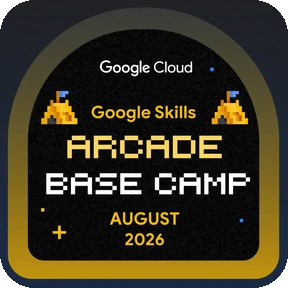
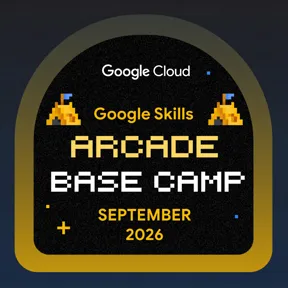
feat(catalog): sinkron katalog ke Arcade September 2026
- 6 game September: game id + access code baru (Base Camp, Adventure/
  Modern Cloud Architecture, Voyage/App Modernization, Trail/Data
  Engineering and Security, Special/Pitch Perfect, Simulator/DevOps
  Engineer).
- Art badge September dari kartu resmi (crop 288px, webp); art Agustus
  diarsipkan ke public/img/past. Cache-buster gambar game ?v=4 -> ?v=5.
- 7 game Agustus masuk PAST_GAMES (54 -> 61), termasuk Re-Trail.
- isGame() kini juga mengenali PAST_GAME_KEYS: game spesial lama tanpa
  kata "Arcade" (Spans and Plans, dst.) tetap dihitung setelah bulan
  berganti, tidak jatuh ke skill/unknown.
- check:arcade membuang komentar HTML sebelum ekstrak access code,
  supaya kode game arsip tidak dianggap drift.

Diverifikasi dengan npm test (132 lolos) dan npm run check:arcade:
tidak ada perbedaan dengan sumber resmi.

diff --git a/lib/gameCatalog.js b/lib/gameCatalog.js
@@ -5,41 +5,29 @@
 //
 // Access code + game id (skills.google/games/{game}) berubah TIAP BULAN.
 // Sumber: go.cloudskillsboost.google/arcade. Update bulanan.
-// Agustus 2026 (dicek 3 Agu 2026; Re-Trail ditambahkan 19 Agu 2026). Trail sudah dibuka lagi, jadi tidak ada lagi entri `off`.
+// September 2026 (dicek 2 Sep 2026).
 //
 // `re` HARUS memuat penanda khas bulan ini (nama tema atau bulannya), bukan cuma kata generik
-// seperti /base ?camp/ atau /voyage/. Judul badge Juli ("Arcade Base Camp July", "Arcade Voyage:
-// July 2026") ikut tersimpan di profil peserta, jadi regex generik membuat game bulan lalu
-// terbaca sebagai game bulan ini dan statusnya salah jadi "Selesai".
+// seperti /base ?camp/ atau /voyage/. Judul badge Agustus ("Arcade Base Camp August 2026",
+// "Arcade Adventure: Data Vault") ikut tersimpan di profil peserta, jadi regex generik membuat
+// game bulan lalu terbaca sebagai game bulan ini dan statusnya salah jadi "Selesai".
 // `title` = judul resmi badge (dari <title> skills.google/games/{id}), dipakai test untuk
 // membuktikan tiap regex cocok dengan judulnya sendiri dan tidak dengan game lain.
 export const GAME_CATALOG = [
-  { name: 'Arcade Base Camp', short: 'Base Camp', title: 'Arcade Base Camp August 2026', game: 7394, code: '1q-basecamp-10219', img: '/img/game-basecamp.webp', re: /base ?camp august/i },
-  { name: 'Arcade Adventure', short: 'Adventure', title: 'Arcade Adventure: Data Vault', sub: 'Data Vault', game: 7395, code: '1q-datamgt-92372', img: '/img/game-adventure.webp', re: /adventure.*data vault/i },
-  // Bukan /google sheets/i polos: skill badge 776 "Use Functions, Formulas, and Charts in Google
-  // Sheets" akan ikut kena.
-  { name: 'Arcade Voyage', short: 'Voyage', title: 'Arcade Voyage: Google Sheets', sub: 'Google Sheets', game: 7398, code: '1q-sheets-29185', img: '/img/game-voyage.webp', re: /voyage.*sheets/i },
-  { name: 'Arcade Trail', short: 'Trail', title: 'Arcade Trail: Cloud Delivery Systems', sub: 'Cloud Delivery Systems', game: 7396, code: '1q-delivery-31058', img: '/img/game-trail.webp', re: /trail.*cloud delivery/i },
-  // Judul resmi game spesial bulan ini cuma "Spans and Plans" (tanpa awalan Arcade). Inilah alasan
+  { name: 'Arcade Base Camp', short: 'Base Camp', title: 'Arcade Base Camp September 2026', game: 7444, code: '1q-basecamp-09304', img: '/img/game-basecamp.webp', re: /base ?camp september/i },
+  { name: 'Arcade Adventure', short: 'Adventure', title: 'Arcade Adventure: Modern Cloud Architecture', sub: 'Modern Cloud Architecture', game: 7441, code: '1q-architecture-01381', img: '/img/game-adventure.webp', re: /adventure.*modern cloud architecture/i },
+  // Bukan /microservice/i polos: skill badge 741 "Develop Serverless Applications on Cloud Run"
+  // dan lab "Build a Resilient, Asynchronous System with Cloud Run and Pub/Sub" memuat kata itu,
+  // tapi keduanya bukan badge game.
+  { name: 'Arcade Voyage', short: 'Voyage', title: 'Arcade Voyage: App Modernization', sub: 'App Modernization', game: 7442, code: '1q-microservice-9210', img: '/img/game-voyage.webp', re: /voyage.*app modernization/i },
+  { name: 'Arcade Trail', short: 'Trail', title: 'Arcade Trail: Data Engineering and Security', sub: 'Data Engineering and Security', game: 7443, code: '1q-vpcpeering-3469', img: '/img/game-trail.webp', re: /trail.*data engineering/i },
+  // Judul resmi game spesial bulan ini cuma "Pitch Perfect" (tanpa awalan Arcade). Inilah alasan
   // GAME_CATALOG dipindah ke lib/: judul tanpa kata "Arcade" tidak tertangkap pola generik di
   // parseProfile, jadi badge-nya kehitung 0,5 poin sebagai badge keahlian, bukan 1 poin game.
-  { name: 'Arcade Special', short: 'Special', title: 'Spans and Plans', sub: 'Spans and Plans', game: 7399, code: '1q-schema-27083', img: '/img/game-special.webp', re: /spans ?and ?plans/i },
-  // Bukan /network security/i polos: badge 1412 "Designing Network Security in Google Cloud" akan
-  // ikut kena dan salah di-link ke halaman game. 1412 sudah dikeluarkan dari SKILL_CATALOG (mati
-  // 4 Agu 2026), tapi judulnya masih tersimpan di profil peserta yang terlanjur mengambilnya,
-  // jadi alasan regex ini tetap berlaku.
-  { name: 'Arcade Simulator', short: 'Simulator', title: 'Arcade Simulator: Network Security Engineer', sub: 'Network Security Engineer', game: 7397, code: '1q-network-51470', img: '/img/game-new.webp', re: /simulator.*network security/i },
-  // Bonus run yang dirilis Google di tengah bulan, bukan bagian dari enam game reguler:
-  // Trail Juli ditutup lebih awal, jadi ini kesempatan menambal satu poin yang terlewat.
-  // Ditemukan 19 Agu 2026 oleh `npm run check:arcade`, yang melihat access code di halaman
-  // resmi tanpa padanan di katalog ini.
-  //
-  // Skor TIDAK terpengaruh selama ia hilang: judulnya diawali "Arcade", jadi pola generik
-  // /^arcade\b/i di gameRules.js sudah menghitungnya 1 poin game. Yang hilang cuma kartunya
-  // di tracker, jadi peserta tidak tahu game ini ada dan tidak dapat access code-nya.
-  //
-  // `re` tidak boleh cuma /trail/: judul Trail bulan ini dan Trail bulan lalu sama-sama
-  // memuat kata itu. "re-?trail" tidak cocok dengan "Arcade Trail" karena di situ yang
-  // mendahului "trail" adalah spasi, bukan "re".
-  { name: 'Arcade Re-Trail', short: 'Re-Trail', title: 'Arcade Re-Trail: Vaults & Vectors', sub: 'Vaults & Vectors', game: 7426, code: '1q-vaults-39213', img: '/img/game-retrail.webp', re: /re-?trail.*vaults/i },
+  // (Kejadian yang sama bulan lalu: "Spans and Plans".)
+  { name: 'Arcade Special', short: 'Special', title: 'Pitch Perfect', sub: 'Pitch Perfect', game: 7446, code: '1q-analysis-5026', img: '/img/game-special.webp', re: /pitch ?perfect/i },
+  // Bukan /devops/i polos: judul badge game ini memang "Arcade Simulator: DevOps Engineer", dan
+  // tidak ada skill badge yang memuat kata "simulator" + "devops", tapi polanya tetap diikat
+  // supaya konsisten dengan bulan-bulan sebelumnya dan tidak menyambar apa pun di luar game.
+  { name: 'Arcade Simulator', short: 'Simulator', title: 'Arcade Simulator: DevOps Engineer', sub: 'DevOps Engineer', game: 7445, code: '1q-devops-065131', img: '/img/game-new.webp', re: /simulator.*devops/i },
 ]

diff --git a/lib/pastGames.js b/lib/pastGames.js
@@ -1,5 +1,5 @@
-// Game Arcade 2026 yang sudah ditutup ("Game over!"), Januari–Juli 2026.
-// Sumber: section "Game over!" di go.cloudskillsboost.google/arcade (dicek ulang 3 Agu 2026).
+// Game Arcade 2026 yang sudah ditutup ("Game over!"), Januari–Agustus 2026.
+// Sumber: section "Game over!" di go.cloudskillsboost.google/arcade (dicek ulang 2 Sep 2026).
 // Dipakai untuk dua hal:
 //   1. Referensi di katalog (game lama tidak bisa dikerjakan lagi, tapi poinnya tetap terhitung
 //      di total Season 2026, jadi peserta perlu tahu asal poinnya).
@@ -79,6 +79,15 @@ export const PAST_GAMES = [
   { m: 7, name: 'Arcade Adventure: July 2026', pts: 1, alt: ['Arcade Adventure: Low-Code Development'] },
   { m: 7, name: 'Arcade Voyage: July 2026', pts: 1, alt: ['Arcade Voyage: Cloud Storage and Data Governance'] },
   { m: 7, name: 'Arcade Trail: July 2026', pts: 1, alt: ['Arcade Trail: Google Workspace Administration'] },
+  // Agustus. Masuk daftar "Game over!" per 2 Sep 2026, termasuk Re-Trail (bonus run tengah bulan).
+  // `alt` = judul badge bertema yang tersimpan di profil peserta (dari `title` GAME_CATALOG Agustus).
+  { m: 8, name: 'Arcade Spans and Plans', pts: 1, alt: ['Spans and Plans'] },
+  { m: 8, name: 'Arcade Simulator: Network Security Engineer', pts: 1 },
+  { m: 8, name: 'Arcade Base Camp August', pts: 1, alt: ['Arcade Base Camp August 2026'] },
+  { m: 8, name: 'Arcade Adventure: August 2026', pts: 1, alt: ['Arcade Adventure: Data Vault'] },
+  { m: 8, name: 'Arcade Voyage: August 2026', pts: 1, alt: ['Arcade Voyage: Google Sheets'] },
+  { m: 8, name: 'Arcade Trail: August 2026', pts: 1, alt: ['Arcade Trail: Cloud Delivery Systems'] },
+  { m: 8, name: 'Arcade Re-Trail: August 2026', pts: 1, alt: ['Arcade Re-Trail: Vaults & Vectors'] },
 ]
 
 // Judul badge di profil bisa beda spasi/tanda baca dengan halaman resmi (mis. "Work- Life"),
@@ -87,6 +96,12 @@ const key = (s) => (s || '').toLowerCase().replace(/[^a-z0-9]+/g, '')
 // Nama + semua aliasnya menunjuk ke entri yang sama.
 const keysOf = (g) => [g.name, ...(g.alt || [])].map(key)
 const PTS_BY_KEY = new Map(PAST_GAMES.flatMap((g) => keysOf(g).map((k) => [k, g.pts])))
+
+// Set semua kunci (nama + alias) game terdahulu. Dipakai gameRules.isGame() supaya game yang
+// sudah "Game over!" tetap terbaca game walau judulnya tidak memuat kata "Arcade" (mis. game
+// spesial Agustus "Spans and Plans"). Tanpa ini, begitu bulan berganti, badge itu jatuh ke
+// "skill"/unknown dan poinnya hilang diam-diam.
+export const PAST_GAME_KEYS = new Set(PTS_BY_KEY.keys())
 
 // true jika peserta punya badge ini. earnedKeys = Set judul badge yang sudah dinormalkan.
 export const pastGameEarned = (g, earnedKeys) => keysOf(g).some((k) => earnedKeys.has(k))

diff --git a/lib/gameRules.js b/lib/gameRules.js
@@ -1,4 +1,5 @@
 import { GAME_CATALOG } from './gameCatalog.js'
+import { PAST_GAME_KEYS } from './pastGames.js'
 
 // Aturan pengenalan badge GAME Arcade. Dipisah dari parseProfile.js supaya lib/scoring.js
 // bisa memakainya tanpa impor melingkar (parseProfile memakai scoring, bukan sebaliknya).
@@ -20,13 +21,19 @@ const GAME_PATTERNS = [
 ]
 
 // Pola generik di atas TIDAK cukup: Google kadang merilis game yang judulnya tidak memuat kata
-// "Arcade" sama sekali (Agustus 2026: "Spans and Plans"). Badge seperti itu diam-diam terhitung
-// sebagai badge keahlian, jadi nilainya 0,5 poin bukan 1 DAN tidak mengisi syarat game milestone.
-// GAME_CATALOG sudah punya regex persis per game bulan berjalan, jadi dipakai sekalian di sini
-// ketimbang menyalin polanya ke dua tempat.
+// "Arcade" sama sekali (Agustus 2026: "Spans and Plans", September 2026: "Pitch Perfect"). Badge
+// seperti itu diam-diam terhitung sebagai badge keahlian, jadi nilainya 0,5 poin bukan 1 DAN
+// tidak mengisi syarat game milestone. GAME_CATALOG sudah punya regex persis per game bulan
+// berjalan, jadi dipakai sekalian di sini ketimbang menyalin polanya ke dua tempat.
+//
+// Begitu bulan berganti, GAME_CATALOG tidak lagi memuat judul game bulan lalu, dan yang judulnya
+// tidak berawalan "Arcade" akan lolos dari GAME_PATTERNS. Karena itu PAST_GAME_KEYS (nama +
+// alias semua game "Game over!") ikut dicek: game terdahulu harus tetap terbaca game supaya
+// poin Season-nya tidak hilang diam-diam.
+const norm = (s) => (s || '').toLowerCase().replace(/[^a-z0-9]+/g, '')
 export function isGame(title) {
   const t = title || ''
-  return GAME_PATTERNS.some((re) => re.test(t)) || GAME_CATALOG.some((g) => g.re.test(t))
+  return GAME_PATTERNS.some((re) => re.test(t)) || GAME_CATALOG.some((g) => g.re.test(t)) || PAST_GAME_KEYS.has(norm(t))
 }
 
 // Kategori untuk breakdown tampilan: skill / basecamp / level / trivia / game (arcade lain).

diff --git a/src/Insights.jsx b/src/Insights.jsx
@@ -98,7 +98,7 @@ export function MonthlyGames({ badges }) {
           const ok = done(g.re)
           return (
             <div key={g.name} className={'gamecard' + (ok ? ' done' : '')}>
-              <img src={g.img + '?v=4'} alt={g.name} loading="lazy" />
+              <img src={g.img + '?v=5'} alt={g.name} loading="lazy" />
               <div className="gc-name">{g.name}</div>
               {g.sub && <div className="gc-sub">{g.sub}</div>}
               <div className={'gc-status' + (ok ? ' ok' : '')}>{ok ? '✓ Selesai' : g.off ? 'Ditunda' : 'Belum'}</div>

diff --git a/src/pages/Catalog.jsx b/src/pages/Catalog.jsx
@@ -457,7 +457,7 @@ export default function Catalog() {
       type: 'game',
       name: g.name,
       title: g.sub ? `${g.name}: ${g.sub}` : g.name,
-      img: g.img + '?v=4',
+      img: g.img + '?v=5',
       code: g.code || null,
       // Game yang ditarik Google tidak dilink: halamannya tidak bisa dimasuki lagi.
       url: g.off || !g.game ? null : gameUrl(g.game),

diff --git a/README.md b/README.md
@@ -14,7 +14,7 @@ leaderboard dihitung **otomatis** dari badge-mu. Gratis & open source.
 - **Poin Saya**, hitung poin otomatis dari profil (base Arcade + bonus milestone),
   rincian per-badge, tier hadiah, chart aktivitas 7 hari, kategori badge.
 - **Leaderboard**, terbuka & multi-guild, ranking real-time, sinkron otomatis harian.
-- **Katalog**, 93 skill badge (51 dari silabus resmi + tambahan) dan 7 game bulan
+- **Katalog**, 93 skill badge (51 dari silabus resmi + tambahan) dan 6 game bulan
   berjalan, tandai selesai/belum, plus arsip game bulan-bulan sebelumnya.
 - **Hadiah**, tier Arcade Player 2026 (Trooper / Ranger / Champion / Legend).
 - **Info**, kode referral, jadwal, panduan, FAQ, pengumuman yang sedang berjalan.
